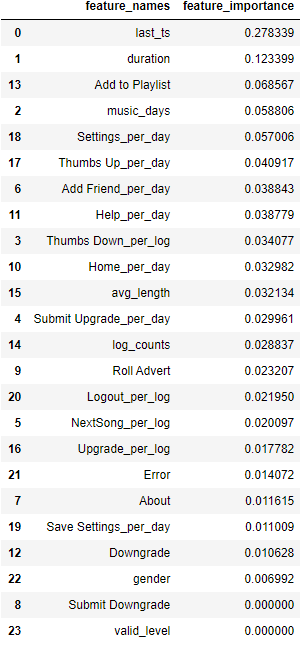
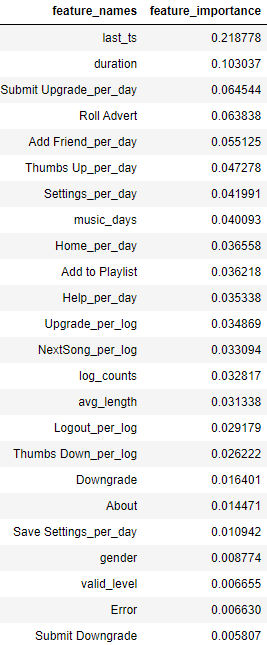
Add link to blogpost and change images

diff --git a/README.md b/README.md
@@ -46,7 +46,7 @@ The most important files in this repository:
 
 ## Results<a name="results"></a>
 
-The main findings of the code can be found at the ...
+The main findings of the code can be found at the [blog post available here](https://medium.com/@franzke.christoph/sparkify-churn-prediction-with-pyspark-on-big-data-e2f98746daa1).
 
 ### Data Analysis
 
@@ -76,8 +76,8 @@ All steps of the modeling are put in a machine learning pipeline that chains dif
 The parameters for each model are tuned with grid search and cross validation. The performance of the models is evaluated with the F1-Score because of the imbalanced dataset.
   
 From all the models the random forest classifier achieves the best performance. The scores on the training and test set are shown below:
-
-todo: screenshot results
+  
+![FeatureImportance](images/results.png)
 
 ### Screenshots
 
